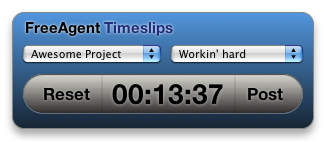
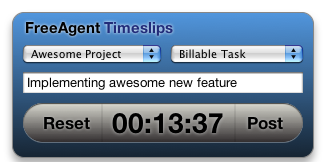
Despite being undocumented, you can post comments to the timeslip API.

diff --git a/FreeAgent.dcproj/project.wdgt/main.css b/FreeAgent.dcproj/project.wdgt/main.css
@@ -14,8 +14,8 @@ body {
     top: 0px;
     left: 0px;
     right: 4px;
-    width: auto;
     bottom: -8px;
+    width: auto;
     height: auto;
 }
 
@@ -62,7 +62,7 @@ body {
     color: rgb(255, 255, 255);
     text-shadow: rgb(0, 0, 0) 0px 0px 6px;
     left: 46px;
-    top: 72px;
+    top: 68px;
     width: auto;
     height: auto;
 }
@@ -77,7 +77,7 @@ body {
     color: rgb(255, 255, 255);
     text-shadow: rgb(0, 0, 0) 0px 0px 6px;
     left: 22px;
-    top: 96px;
+    top: 94px;
     width: auto;
     height: auto;
 }
@@ -92,7 +92,7 @@ body {
     color: rgb(255, 255, 255);
     text-shadow: rgb(0, 0, 0) 0px 0px 6px;
     left: 36px;
-    top: 46px;
+    top: 42px;
     width: auto;
     height: auto;
 }
@@ -103,8 +103,8 @@ body {
     font-family: HelveticaNeue;
     font-size: 10pt;
     left: 87px;
-    width: 156px;
-    top: 40px;
+    top: 37px;
+    width: 212px;
 }
 
 #email {
@@ -113,8 +113,8 @@ body {
     font-family: HelveticaNeue;
     font-size: 10pt;
     left: 87px;
-    width: 156px;
-    top: 66px;
+    top: 63px;
+    width: 212px;
 }
 
 #password {
@@ -122,12 +122,11 @@ body {
     color: black;
     font-family: HelveticaNeue;
     font-size: 10pt;
-    min-height: 14px;
     left: 87px;
-    width: 156px;
-    top: 92px;
-    bottom: 30px;
-    height: auto;
+    height: 11px;
+    min-height: 15px;
+    top: 91px;
+    width: 212px;
 }
 
 #projects {
@@ -167,7 +166,7 @@ body {
     font-family: 'Helvetica Neue';
     width: 264px;
     top: 16px;
-    bottom: 105px;
+    bottom: 125px;
     height: auto;
 }
 
@@ -184,7 +183,7 @@ body {
     text-shadow: rgb(191, 191, 191) 0px 0px 3px;
     width: 79px;
     left: 23px;
-    top: 74px;
+    top: 103px;
 }
 
 #time {
@@ -195,15 +194,14 @@ body {
     text-shadow: rgb(191, 191, 191) 0px 0px 4px;
     width: 133px;
     left: 102px;
-    top: 74px;
-    bottom: 28px;
-    height: auto;
     text-align: center;
     padding: 0px;
     white-space: nowrap;
     text-overflow: clip;
     overflow: hidden;
     font-size: 28px;
+    top: 103px;
+    height: 40px;
 }
 
 #post {
@@ -218,7 +216,7 @@ body {
     text-shadow: rgb(191, 191, 191) 0px 0px 4px;
     width: 68px;
     left: 235px;
-    top: 74px;
+    top: 103px;
 }
 
 #newTaskBox {
@@ -324,15 +322,15 @@ body {
     position: absolute;
     margin-top: 0px;
     font-family: HelveticaNeue-Light;
-    font-size: 8pt;
-    text-align: right;
-    left: 268px;
     color: rgb(151, 151, 151);
     text-shadow: rgb(0, 0, 0) 0px 0px 4px;
-    top: 61px;
-    right: 23px;
+    font-size: 9pt;
+    text-align: left;
+    left: 127px;
+    top: 125px;
+    right: 126px;
     width: auto;
-    bottom: 51px;
+    bottom: 15px;
     height: auto;
 }
 
@@ -342,15 +340,15 @@ body {
     position: absolute;
     margin-top: 0px;
     font-family: HelveticaNeue-Light;
-    top: 21px;
-    font-size: 8pt;
     text-align: right;
-    left: 268px;
     color: rgb(151, 151, 151);
     text-shadow: rgb(0, 0, 0) 0px 0px 4px;
-    right: 23px;
+    font-size: 9pt;
+    left: 26px;
+    top: 125px;
+    right: 206px;
     width: auto;
-    bottom: 79px;
+    bottom: 13px;
     height: auto;
 }
 
@@ -360,7 +358,17 @@ body {
     font-weight: bold;
     font-family: 'Helvetica Neue';
     font-size: 28px;
-    top: 72px;
     width: 127px;
     left: 102px;
+    top: 101px;
+}
+
+#comment {
+    position: absolute;
+    color: black;
+    font-family: HelveticaNeue;
+    font-size: 10pt;
+    left: 23px;
+    width: 274px;
+    top: 70px;
 }

diff --git a/FreeAgent.dcproj/project.wdgt/main.html b/FreeAgent.dcproj/project.wdgt/main.html
@@ -26,6 +26,7 @@
         </select>
         <select apple-part="com.apple.Dashcode.part.backpopupbutton" id="tasks" apple-group="popup" onchange="getNewTask(event)">
         </select>
+        <input type="text" name="" value="" class="apple-textfield apple-no-children" apple-part="com.apple.Dashcode.part.textfield" id="comment">
         <div apple-part="com.apple.Dashcode.part.lozengeleftbutton" class="apple-no-children" apple-style="image-theme: 1; image-shape: 7; image-button-type: 0; image-opacity: 1.00; image-top-color: 0.858536601,0.85637325,0.823360503,1; image-bottom-color: 0.193224996,0.181400582,0.185697064,1; image-radius: 20,0,20,0; image-border: 0; image-border-color: 0.529399991,0.529399991,0.529399991,1; image-border-width: 1; shine-on: 0; shine-strength: 0.75; shine-alpha-level: 0.87; shine-height: 0.50; glass-arc-height: 0.06; embossed-on: 1; embossed-depth: 1; embossed-shadow: 0.68; embossed-highlight: 0.3; shadow-include-shadow: 0;" id="reset"></div>
         <div apple-part="com.apple.Dashcode.part.roundedtextbutton" class="apple-no-children" apple-style="image-theme: 1; image-shape: 3; image-button-type: 0; image-opacity: 1.00; image-top-color: 0.858536601,0.85637325,0.823360503,1; image-bottom-color: 0.193224996,0.181400582,0.185697064,1; image-radius: 0,0,0,0; image-border: 0; image-border-color: 0.529399991,0.529399991,0.529399991,1; image-border-width: 1; shine-on: 0; shine-strength: 0.75; shine-alpha-level: 0.87; shine-height: 0.50; glass-arc-height: 0.06; embossed-on: 1; embossed-depth: 1; embossed-shadow: 0.68; embossed-highlight: 0.3; shadow-include-shadow: 0;" id="time" apple-text-overflow="clip" ondblclick="enterTime(event)"></div>
         <div apple-part="com.apple.Dashcode.part.lozengerightbutton" class="apple-no-children" apple-style="image-theme: 1; image-shape: 8; image-button-type: 0; image-opacity: 1.00; image-top-color: 0.858536601,0.85637325,0.823360503,1; image-bottom-color: 0.193224996,0.181400582,0.185697064,1; image-radius: 0,20,0,20; image-border: 0; image-border-color: 0.529399991,0.529399991,0.529399991,1; image-border-width: 1; shine-on: 0; shine-strength: 0.75; shine-alpha-level: 0.87; shine-height: 0.50; glass-arc-height: 0.06; embossed-on: 1; embossed-depth: 1; embossed-shadow: 0.68; embossed-highlight: 0.3; shadow-include-shadow: 0;" id="post"></div>

diff --git a/FreeAgent.dcproj/project.wdgt/main.js b/FreeAgent.dcproj/project.wdgt/main.js
@@ -283,6 +283,10 @@ function elapsedTimeAsHours() {
     return elapsedSeconds / (60 * 60);
 }
 
+function comment() {
+    return $("#comment").val();
+}
+
 function postTime(event)
 {
     if (elapsedSeconds < 60) {
@@ -294,7 +298,8 @@ function postTime(event)
     var timeslipXML = "<?xml version=\"1.0\" encoding=\"UTF-8\"?><timeslip>" + 
                       "<dated-on>" + now.toUTCString() + "</dated-on>" + 
                       "<user-id>" + userID + "</user-id>" + 
-                      "<hours>" + elapsedTimeAsHours() + "</hours>";
+                      "<hours>" + elapsedTimeAsHours() + "</hours>" + 
+                      "<comment>" + comment() + "</comment>";
 
     // set the task
     if ($("#tasks").val() == 'new') {

diff --git a/FreeAgent.dcproj/project.wdgt/Parts/setup.js b/FreeAgent.dcproj/project.wdgt/Parts/setup.js
@@ -17,7 +17,7 @@ var dashcodePartSpecs = {
     "text1": { "creationFunction": "CreateText", "text": "Password" },
     "text2": { "creationFunction": "CreateText", "text": "Domain" },
     "text3": { "creationFunction": "CreateText", "text": "Free Range" },
-    "text4": { "creationFunction": "CreateText", "text": "by James Adam & Free Range" },
+    "text4": { "creationFunction": "CreateText", "text": "by James Adam  &" },
     "time": { "creationFunction": "CreateButton", "leftImageWidth": 1, "onclick": "toggleTiming", "rightImageWidth": 1, "text": "00:00:00" },
     "title": { "creationFunction": "CreateText", "text": "FreeAgent" }
 };

diff --git a/FreeAgent.dcproj/project.wdgt/en.lproj/localizedStrings.js b/FreeAgent.dcproj/project.wdgt/en.lproj/localizedStrings.js
@@ -5,6 +5,7 @@
  code generator otherwise the changes will be lost.
  */
 var localizedStrings = {
+    "00:00:00": "00:00:00",
     "Done": "Done",
     "FreeAgent": "FreeAgent",
     "Timeslips": "Timeslips"
